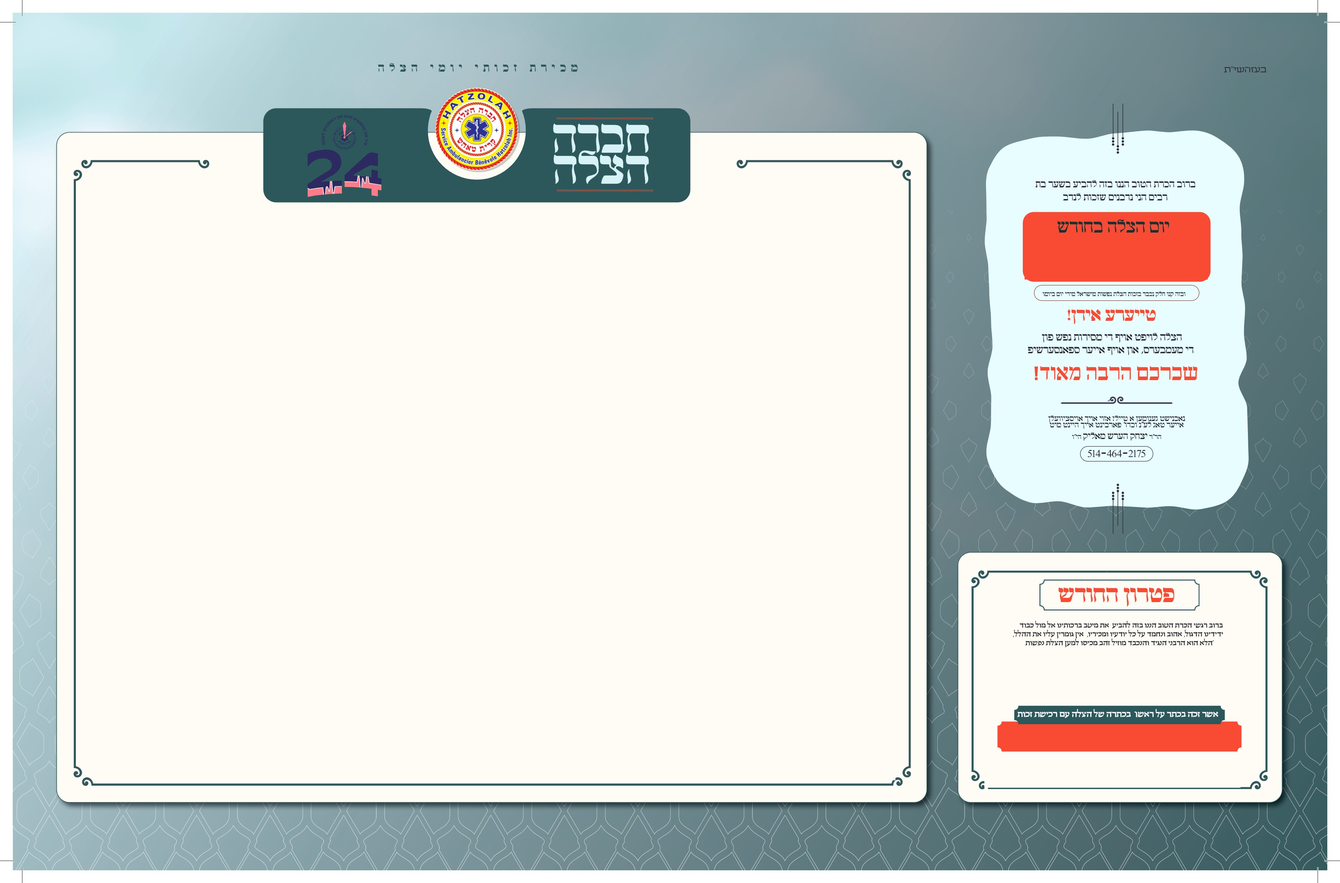
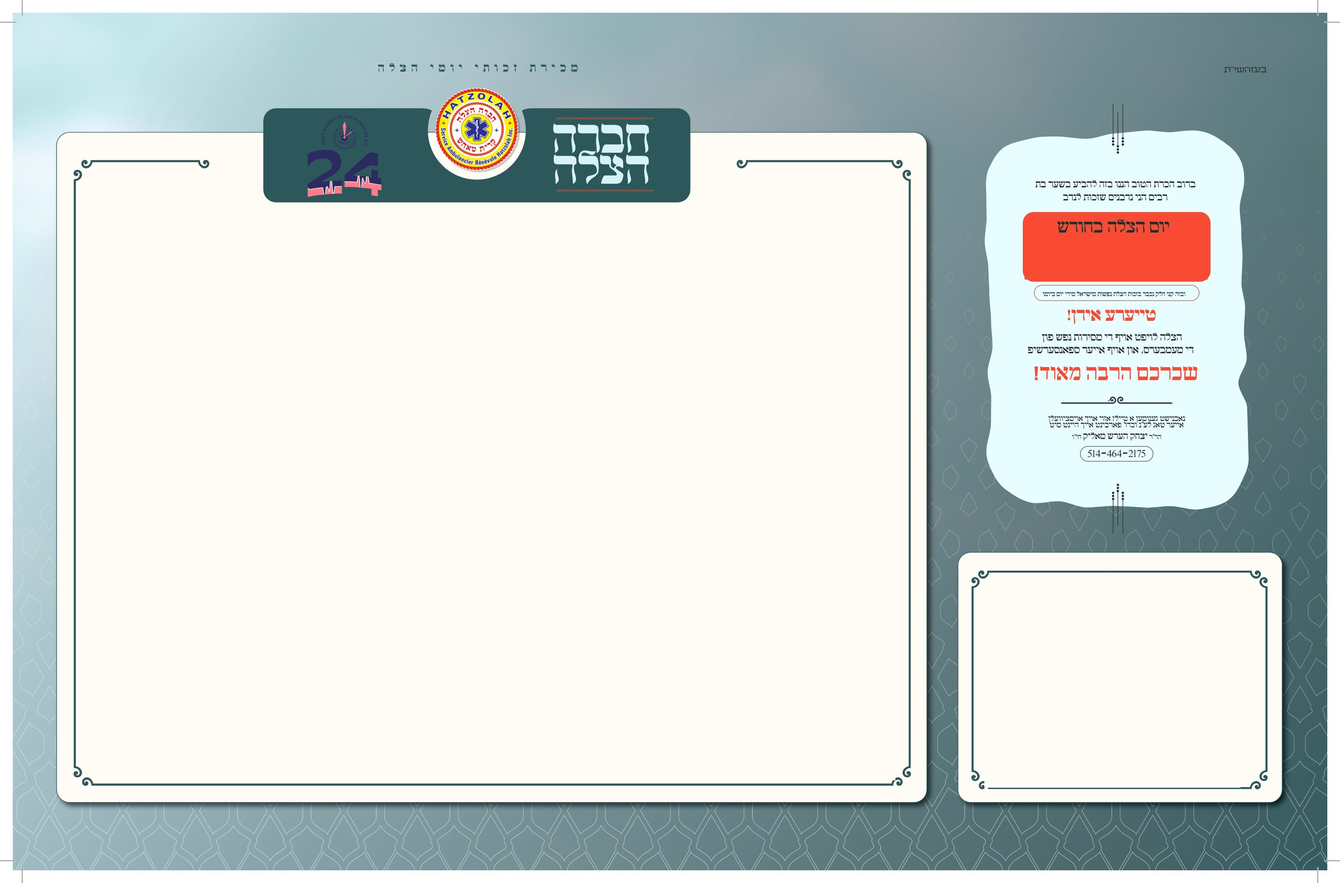
Sponsor list patron section: heading, text, strip, red band, name and dedication are separate pieces that can be dragged (or moved with the arrow keys), removed and brought back; saved per month. Long names and dedications shrink to fit their space instead of running over other pieces (also in the d

Changed region(s): [[0.7457, 0.7794, 0.9321, 0.8729], [0.7767, 0.6547, 0.901, 0.7482]]

diff --git a/src/pages/SponsorSheet.tsx b/src/pages/SponsorSheet.tsx
@@ -3,7 +3,7 @@ import { Combine, MoveLeft, MoveRight, Pencil, Printer, RotateCcw, Split, X } fr
 import { HDate } from '@hebcal/core';
 import { MonthNav } from '../components/HebrewCalendar';
 import { hebMonthName, hebYearText, todayHebrew } from '../utils/hebrewCalendar';
-import { type SheetDay, type SheetLayout, type SheetText, TEXT_FIELDS, dayLabel, defaultLayout, hasText, mergeBoxes, moveBox, nameLine, normalizeLayout, placeBoxes, shownText, splitBox, systemText } from '../utils/sponsorSheet';
+import { type PieceKey, type PieceSpot, type SheetDay, type SheetLayout, type SheetText, PIECES, TEXT_FIELDS, changePiece, cleanPieces, pieceSpot, dayLabel, defaultLayout, hasText, mergeBoxes, moveBox, nameLine, normalizeLayout, placeBoxes, shownText, splitBox, systemText } from '../utils/sponsorSheet';
 
 type Item = SheetDay & { id: string; kind: 'day' | 'month' };
 
@@ -22,12 +22,18 @@ const rowTops = (rows: number) => {
   return { tops: Array.from({ length: rows }, (_, index) => ROW_TOP[0] + pitch * index), height: Math.min(BOX_H, pitch - 15) };
 };
 
-/** Shrinks the text of a box until it fits. */
+/** A text size that shrinks with its box (see Fit). */
+const fs = (size: number) => `calc(${size}pt * var(--k, 1))`;
+/** Shrinks the text inside until it fits its box, so it never runs over other parts of the sheet. */
 const Fit: React.FC<{ children: React.ReactNode; deps: unknown[] }> = ({ children, deps }) => {
   const ref = useRef<HTMLDivElement>(null);
   useLayoutEffect(() => {
-    const el = ref.current; if (!el) return; let scale = 1; el.style.fontSize = '1em';
-    for (let step = 0; step < 14 && (el.scrollHeight > el.clientHeight + 1 || el.scrollWidth > el.clientWidth + 1); step++) { scale -= 0.05; el.style.fontSize = `${scale}em`; }
+    const el = ref.current; if (!el) return;
+    const run = () => {
+      let k = 1; el.style.setProperty('--k', '1');
+      while (k > 0.25 && (el.scrollHeight > el.clientHeight + 1 || el.scrollWidth > el.clientWidth + 1)) { k -= 0.03; el.style.setProperty('--k', String(k)); }
+    };
+    run(); void document.fonts?.ready.then(run);
   }, deps); // eslint-disable-line react-hooks/exhaustive-deps
   return <div ref={ref} className="ss-fit">{children}</div>;
 };
@@ -36,14 +42,14 @@ const Fit: React.FC<{ children: React.ReactNode; deps: unknown[] }> = ({ childre
 const BoxText: React.FC<{ text: SheetText; span: number }> = ({ text, span }) => {
   const honoree = [text.honoree, text.notes].filter(Boolean) as string[];
   const name = [text.first, text.last].filter(Boolean).join(' ');
-  if (span >= 5) return <Fit deps={[text, span]}><div className="ss-line">{text.title && <span style={{ fontSize: '18pt' }} className="ss-ink">{text.title}</span>} <span className="ss-name" style={{ fontSize: '36pt' }}>{name}</span> {text.end && <span style={{ fontSize: '18pt' }} className="ss-ink">{text.end}</span>}</div>{honoree.map(line => <div key={line} className="ss-hon" style={{ fontSize: '12pt' }}>{line}</div>)}</Fit>;
+  if (span >= 5) return <Fit deps={[text, span]}><div className="ss-line">{text.title && <span style={{ fontSize: fs(18) }} className="ss-ink">{text.title}</span>} <span className="ss-name" style={{ fontSize: fs(36) }}>{name}</span> {text.end && <span style={{ fontSize: fs(18) }} className="ss-ink">{text.end}</span>}</div>{honoree.map(line => <div key={line} className="ss-hon" style={{ fontSize: fs(12) }}>{line}</div>)}</Fit>;
   const nameSize = span >= 3 ? 24 : span === 2 ? 17 : 15;
   // One line when it fits; otherwise the first name on one line and the last name under it.
   return <Fit deps={[text, span]}>
-    {text.title && <div className="ss-ink ss-title" style={{ fontSize: '8pt' }}>{text.title}</div>}
-    {name && <div className="ss-name" style={{ fontSize: pt(nameSize) }}>{text.first && text.last ? <><span className="ss-nowrap">{text.first}</span> <span className="ss-nowrap">{text.last}</span></> : name}</div>}
-    {text.end && <div className="ss-ink" style={{ fontSize: '8pt' }}>{text.end}</div>}
-    {honoree.map(line => <div key={line} className="ss-hon" style={{ fontSize: span >= 3 ? '9pt' : '7.5pt' }}>{line}</div>)}
+    {text.title && <div className="ss-ink ss-title" style={{ fontSize: fs(8) }}>{text.title}</div>}
+    {name && <div className="ss-name" style={{ fontSize: fs(nameSize) }}>{text.first && text.last ? <><span className="ss-nowrap">{text.first}</span> <span className="ss-nowrap">{text.last}</span></> : name}</div>}
+    {text.end && <div className="ss-ink" style={{ fontSize: fs(8) }}>{text.end}</div>}
+    {honoree.map(line => <div key={line} className="ss-hon" style={{ fontSize: fs(span >= 3 ? 9 : 7.5) }}>{line}</div>)}
   </Fit>;
 };
 
@@ -76,13 +82,15 @@ export const SponsorSheet: React.FC = () => {
   const [editing, setEditing] = useState<{ kind: 'box'; day: number; label: string } | { kind: 'patron' } | null>(null);
   const [status, setStatus] = useState(''); const [scale, setScale] = useState(0.6); const wrap = useRef<HTMLDivElement>(null);
   const saveTimer = useRef<number | undefined>(undefined);
+  const [piece, setPiece] = useState<string | null>(null); // the chosen piece of the patron section
+  const layoutRef = useRef(layout); layoutRef.current = layout;
 
   useEffect(() => {
     const id = 'sponsor-sheet-fonts';
     if (!document.getElementById(id)) { const link = document.createElement('link'); link.id = id; link.rel = 'stylesheet'; link.href = 'https://fonts.googleapis.com/css2?family=Noto+Serif+Hebrew:wdth,wght@62.5..100,300..900&display=swap'; document.head.appendChild(link); }
   }, []);
   useEffect(() => {
-    let cancelled = false; setLoaded(false); setSelected([]);
+    let cancelled = false; setLoaded(false); setSelected([]); setPiece(null);
     void (async () => {
       try {
         const response = await fetch(`/api/v3/sponsor-sheet?hebYear=${view.year}&hebMonth=${view.month}`); const data = await response.json();
@@ -125,6 +133,32 @@ export const SponsorSheet: React.FC = () => {
   const split = () => { let next = layout; [...selected].sort((a, b) => b - a).forEach(index => { next = splitBox(next, index); }); save(next); setSelected([]); };
   const move = (step: -1 | 1) => { if (selected.length !== 1) return; const to = selected[0] + step; if (to < 0 || to >= layout.boxes.length) return; save(moveBox(layout, selected[0], to)); setSelected([to]); };
   const editLabel = (day: number) => { const text = window.prompt('Text on this day tab (for example יא):', dayLabel(layout, day)); if (text === null) return; const labels = { ...(layout.labels || {}) }; if (text.trim()) labels[String(day)] = text.trim(); else delete labels[String(day)]; save({ ...layout, labels }); };
+  // Patron section: every piece can be dragged, moved with the arrow keys, hidden, or put back.
+  const setSpot = (key: string, spot: PieceSpot) => save({ ...layoutRef.current, pieces: cleanPieces({ ...(layoutRef.current.pieces || {}), [key]: spot }) });
+  const startDrag = (key: string) => (event: React.PointerEvent) => {
+    if (event.button !== 0) return; event.stopPropagation(); setPiece(key); setSelected([]);
+    const perPx = 1 / (scale * 4 / 3); let last = { x: event.clientX, y: event.clientY }; let current = layoutRef.current; let moved = false;
+    const onMove = (ev: PointerEvent) => { const dx = (ev.clientX - last.x) * perPx; const dy = (ev.clientY - last.y) * perPx; if (!dx && !dy) return; last = { x: ev.clientX, y: ev.clientY }; current = changePiece(current, key, { dx, dy }); moved = true; setLayout(current); };
+    const onUp = () => { window.removeEventListener('pointermove', onMove); window.removeEventListener('pointerup', onUp); if (moved) save(current); };
+    window.addEventListener('pointermove', onMove); window.addEventListener('pointerup', onUp);
+  };
+  useEffect(() => {
+    if (!piece) return;
+    const onKey = (event: KeyboardEvent) => {
+      const target = event.target as HTMLElement; if (target.closest('input,textarea,select,.modal')) return;
+      const step = event.shiftKey ? 5 : 1; const arrows: Record<string, [number, number]> = { ArrowLeft: [-step, 0], ArrowRight: [step, 0], ArrowUp: [0, -step], ArrowDown: [0, step] };
+      if (arrows[event.key]) { event.preventDefault(); save(changePiece(layoutRef.current, piece, { dx: arrows[event.key][0], dy: arrows[event.key][1] })); }
+      else if (event.key === 'Delete' || event.key === 'Backspace') { event.preventDefault(); save(changePiece(layoutRef.current, piece, { hidden: true })); setPiece(null); }
+      else if (event.key === 'Escape') setPiece(null);
+    };
+    window.addEventListener('keydown', onKey); return () => window.removeEventListener('keydown', onKey);
+  }, [piece]); // eslint-disable-line react-hooks/exhaustive-deps
+  const pieceBox = (key: PieceKey, children: React.ReactNode, onEdit?: () => void) => {
+    const spec = PIECES.find(item => item.key === key)!; const spot = pieceSpot(layout, key); if (spot.hidden) return null;
+    return <div key={key} className={`ss-abs ss-piece ${piece === key ? 'ss-piece-on' : ''}`} style={{ left: pt(spec.x + spot.dx), top: pt(spec.y + spot.dy), width: pt(spec.w), height: pt(spec.h) }}
+      onPointerDown={startDrag(key)} onDoubleClick={onEdit} title={`${spec.label}: drag to move${onEdit ? ', double-click to change the text' : ''}`}>{children}</div>;
+  };
+  const chosenPiece = PIECES.find(item => item.key === piece);
   const mixed = placed.filter(box => new Set(box.days.map(day => byDay.get(day)?.donorId || '')).size > 1);
 
   return <div className="ss-page">
@@ -148,12 +182,21 @@ export const SponsorSheet: React.FC = () => {
         <label>Month in the patron band <input dir="rtl" value={layout.bandMonth ?? ''} placeholder={monthName} onChange={event => save({ ...layout, bandMonth: event.target.value })} /></label>
         <small style={{ color: 'var(--text-muted)' }}>{loaded ? status : 'Loading…'}</small>
       </div>
-      <small style={{ color: 'var(--text-muted)' }}>Click boxes to choose them, then Merge (each day keeps its tab). Drag a box to move it. Double-click a box (or the patron) to change its text. Double-click a red day tab to change its date. Print: paper 11 × 17 (Tabloid), landscape, margins none, “Background graphics” on.</small>
+      <div className="ss-tools">
+        <strong style={{ fontSize: 13 }}>Patron section:</strong>
+        {PIECES.map(item => <label key={item.key} title="Untick to take it off the sheet"><input type="checkbox" style={{ width: 'auto' }} checked={!pieceSpot(layout, item.key).hidden} onChange={event => { save(changePiece(layout, item.key, { hidden: !event.target.checked })); if (!event.target.checked && piece === item.key) setPiece(null); }} /> <span dir="auto">{item.label}</span></label>)}
+        {chosenPiece && <>
+          <button className="btn btn-secondary btn-sm" onClick={() => { const spot = pieceSpot(layout, chosenPiece.key); setSpot(chosenPiece.key, { dx: 0, dy: 0, hidden: spot.hidden }); }}><RotateCcw size={14} /> Put “{chosenPiece.label}” back</button>
+          <button className="btn btn-secondary btn-sm" onClick={() => { save(changePiece(layout, chosenPiece.key, { hidden: true })); setPiece(null); }}><X size={14} /> Remove it</button>
+        </>}
+        {layout.pieces && <button className="btn btn-ghost btn-sm" onClick={() => { save({ ...layout, pieces: undefined }); setPiece(null); }}><RotateCcw size={14} /> Patron section as regular</button>}
+      </div>
+      <small style={{ color: 'var(--text-muted)' }}>Patron section: drag any piece to move it, or click it and use the arrow keys (Shift = bigger steps); Delete removes it; tick it again to bring it back. Click boxes to choose them, then Merge (each day keeps its tab). Drag a box to move it. Double-click a box (or the patron) to change its text. Double-click a red day tab to change its date. Print: paper 11 × 17 (Tabloid), landscape, margins none, “Background graphics” on.</small>
       {error && <div className="pay-error">{error}</div>}
       {mixed.length > 0 && <div className="pay-error">A merged box has days of different sponsors ({mixed.map(box => box.days.map(day => dayLabel(layout, day)).join(',')).join(' · ')}). The box shows the first day's sponsor.</div>}
     </div>
     <div ref={wrap} className="ss-wrap" style={{ height: 834 * (4 / 3) * scale }}>
-      <div className="ss-sheet" dir="rtl" style={{ transform: `scale(${scale})` }}>
+      <div className="ss-sheet" dir="rtl" style={{ transform: `scale(${scale})` }} onPointerDown={() => setPiece(null)}>
         <img className="ss-template" src="/sponsor-sheet/template.jpg" alt="" />
         {placed.map(box => {
           const top = tops[box.row]; const right = COL_LEFT[box.col] + BOX_W + BORDER; const left = COL_LEFT[box.col + box.span - 1] - BORDER;
@@ -169,14 +212,15 @@ export const SponsorSheet: React.FC = () => {
           </React.Fragment>;
         })}
         <div className="ss-abs ss-month" style={{ left: pt(968), top: pt(226), width: pt(173), height: pt(38) }}>{monthTitle}</div>
-        {hasText(patronShown) && <>
-          <div className="ss-abs ss-patron" style={{ left: pt(920), top: pt(612), width: pt(260), height: pt(52) }} onDoubleClick={() => setEditing({ kind: 'patron' })}>
-            <div>{patronShown.title && <span className="ss-ink" style={{ fontSize: '13pt' }}>{patronShown.title}</span>} <span className="ss-pname">{patronShown.first}</span></div>
-            <div><span className="ss-pname">{patronShown.last}</span> {patronShown.end && <span className="ss-ink" style={{ fontSize: '14pt' }}>{patronShown.end}</span>}</div>
-          </div>
-          <div className="ss-abs ss-phon" style={{ left: pt(932), top: pt(711), width: pt(238), height: pt(32) }} onDoubleClick={() => setEditing({ kind: 'patron' })}><Fit deps={[patronShown]}>{patronShown.honoree && <div>{patronShown.honoree}</div>}{patronShown.notes && <div style={{ fontSize: '7pt' }}>{patronShown.notes}</div>}</Fit></div>
-        </>}
-        <div className="ss-abs ss-band" style={{ left: pt(946), top: pt(683), width: pt(223), height: pt(25) }}>פטרון הצלה לחודש {bandMonth}</div>
+        {pieceBox('title', <img className="ss-pimg" src="/sponsor-sheet/title.png" alt="" draggable={false} />)}
+        {pieceBox('intro', <img className="ss-pimg" src="/sponsor-sheet/intro.png" alt="" draggable={false} />)}
+        {pieceBox('band', <><img className="ss-pimg" src="/sponsor-sheet/band.png" alt="" draggable={false} /><div className="ss-band"><Fit deps={[bandMonth]}><span className="ss-nowrap">פטרון הצלה לחודש {bandMonth}</span></Fit></div></>, () => { const text = window.prompt('Month in the red band:', bandMonth); if (text !== null) save({ ...layout, bandMonth: text }); })}
+        {pieceBox('strip', <img className="ss-pimg" src="/sponsor-sheet/strip.png" alt="" draggable={false} />)}
+        {hasText(patronShown) && pieceBox('name', <div className="ss-patron"><Fit deps={[patronShown]}>
+          <div className="ss-nowrap">{patronShown.title && <span className="ss-ink" style={{ fontSize: fs(13) }}>{patronShown.title}</span>} <span className="ss-pname">{patronShown.first}</span></div>
+          <div className="ss-nowrap"><span className="ss-pname">{patronShown.last}</span> {patronShown.end && <span className="ss-ink" style={{ fontSize: fs(14) }}>{patronShown.end}</span>}</div>
+        </Fit></div>, () => setEditing({ kind: 'patron' }))}
+        {(patronShown.honoree || patronShown.notes) && pieceBox('dedication', <div className="ss-phon"><Fit deps={[patronShown]}>{patronShown.honoree && <div>{patronShown.honoree}</div>}{patronShown.notes && <div style={{ fontSize: fs(7) }}>{patronShown.notes}</div>}</Fit></div>, () => setEditing({ kind: 'patron' }))}
       </div>
     </div>
     {editing?.kind === 'box' && <TextEditor heading={`Box ${editing.label}`} system={systemText(byDay.get(editing.day) || null)} typed={layout.texts?.[String(editing.day)]} onClose={() => setEditing(null)} onSave={typed => saveBoxText(editing.day, typed)} />}
@@ -207,10 +251,16 @@ const SHEET_CSS = `
 .ss-hon{color:${INK};font-weight:500;font-stretch:72%;line-height:1.15;margin-top:2pt}
 .ss-tab{position:absolute;width:${TAB_W}pt;height:${TAB_H}pt;background:${RED};color:#fff;border-radius:6pt 0 6pt 0;box-shadow:1.6pt 1.6pt 0 #5e8587;font-weight:700;font-stretch:85%;font-size:16pt;line-height:${TAB_H}pt;text-align:right;padding-right:5pt;box-sizing:border-box;cursor:text;white-space:nowrap;overflow:hidden}
 .ss-month{color:#fff;font-weight:800;font-stretch:72%;font-size:34pt;line-height:36pt;text-align:center;white-space:nowrap}
-.ss-patron{text-align:center;line-height:24pt;color:${TEAL};cursor:text}
-.ss-pname{font-size:25pt;font-weight:800;font-stretch:80%;color:${TEAL}}
-.ss-band{color:#fff;font-weight:800;font-stretch:80%;font-size:22pt;line-height:25pt;text-align:center;white-space:nowrap}
-.ss-phon{text-align:center;font-size:8pt;line-height:1.2;color:${INK};font-weight:500}
+.ss-piece{cursor:move;user-select:none;-webkit-user-select:none;touch-action:none}
+.ss-piece:hover{outline:1.5pt dashed rgba(37,99,235,.45);outline-offset:1pt}
+.ss-piece-on{outline:2.5pt solid #2563eb!important;outline-offset:1pt}
+.ss-pimg{position:absolute;inset:0;width:100%;height:100%;display:block;pointer-events:none}
+.ss-patron{position:absolute;inset:0;display:flex;align-items:center;line-height:.98;color:${TEAL}}
+.ss-pname{font-size:calc(25pt * var(--k, 1));font-weight:800;font-stretch:80%;color:${TEAL}}
+.ss-band{position:absolute;left:5pt;right:5pt;top:3.3pt;height:25pt;display:flex;align-items:center;color:#fff;font-weight:800;font-stretch:80%;line-height:1}
+.ss-band .ss-nowrap{font-size:calc(22pt * var(--k, 1))}
+.ss-phon{position:absolute;inset:0;display:flex;align-items:center;line-height:1.2;color:${INK};font-weight:500}
+.ss-phon .ss-fit{font-size:calc(8pt * var(--k, 1))}
 @media print{
   @page{size:1266pt 834pt;margin:0}
   html,body{margin:0!important;padding:0!important;background:#fff!important}
@@ -218,7 +268,7 @@ const SHEET_CSS = `
   .ss-sheet,.ss-sheet *{visibility:visible}
   .ss-wrap{height:auto!important;overflow:visible}
   .ss-sheet{position:fixed;top:0;left:0;transform:none!important;box-shadow:none}
-  .ss-box{outline:none!important;opacity:1!important}
+  .ss-box,.ss-piece{outline:none!important;opacity:1!important}
   .no-print{display:none!important}
 }
 `;

diff --git a/src/utils/sponsorSheet.ts b/src/utils/sponsorSheet.ts
@@ -17,7 +17,39 @@ export const TEXT_FIELDS = ['title', 'first', 'last', 'end', 'honoree', 'notes']
  * boxes: the days of each box, in the order they are shown. labels: a day's text on its tab when it was changed.
  * texts: text typed by hand for a box (by the box's first day); patronText: the same for the month patron.
  */
-export type SheetLayout = { boxes: number[][]; labels?: Record<string, string>; monthTitle?: string; bandMonth?: string; texts?: Record<string, SheetText>; patronText?: SheetText };
+export type SheetLayout = { boxes: number[][]; labels?: Record<string, string>; monthTitle?: string; bandMonth?: string; texts?: Record<string, SheetText>; patronText?: SheetText; pieces?: Record<string, PieceSpot> };
+/** Where a piece of the patron section was moved to (points from its regular place), or hidden. */
+export type PieceSpot = { dx: number; dy: number; hidden?: boolean };
+/** The pieces of the patron section, at their regular place on the sheet (points). */
+export const PIECES = [
+  { key: 'title', label: 'Heading פטרון החודש', x: 981, y: 546.3, w: 153, h: 31 },
+  { key: 'intro', label: 'Text ברוב רגשי…', x: 955.7, y: 585, w: 200.6, h: 27 },
+  { key: 'name', label: 'Patron name', x: 925, y: 612, w: 265, h: 53 },
+  { key: 'strip', label: 'Strip אשר זכה בכתר…', x: 957, y: 665.3, w: 201, h: 18.7 },
+  { key: 'band', label: 'Red band', x: 941, y: 680.7, w: 232.7, h: 30 },
+  { key: 'dedication', label: 'Dedication line', x: 932, y: 711, w: 238, h: 32 },
+] as const;
+export type PieceKey = typeof PIECES[number]['key'];
+const PIECE_KEYS: readonly string[] = PIECES.map(piece => piece.key);
+const LIMIT = 1300;
+const clampMove = (value: unknown) => { const number = Number(value); return Number.isFinite(number) ? Math.round(Math.max(-LIMIT, Math.min(LIMIT, number)) * 10) / 10 : 0; };
+/** Keeps only known pieces with sane numbers. */
+export const cleanPieces = (raw: any): Record<string, PieceSpot> | undefined => {
+  const out: Record<string, PieceSpot> = {};
+  for (const [key, value] of Object.entries(raw && typeof raw === 'object' ? raw : {})) {
+    if (!PIECE_KEYS.includes(key) || !value || typeof value !== 'object') continue;
+    const spot: PieceSpot = { dx: clampMove((value as any).dx), dy: clampMove((value as any).dy) }; if ((value as any).hidden === true) spot.hidden = true;
+    if (spot.dx || spot.dy || spot.hidden) out[key] = spot;
+  }
+  return Object.keys(out).length ? out : undefined;
+};
+export const pieceSpot = (layout: SheetLayout, key: string): PieceSpot => layout.pieces?.[key] || { dx: 0, dy: 0 };
+/** Moves a piece by (dx, dy) points, or sets it hidden / shown. */
+export const changePiece = (layout: SheetLayout, key: string, change: Partial<PieceSpot>): SheetLayout => {
+  const now = pieceSpot(layout, key);
+  const next = { ...now, ...change, dx: change.dx !== undefined ? now.dx + change.dx : now.dx, dy: change.dy !== undefined ? now.dy + change.dy : now.dy };
+  return { ...layout, pieces: cleanPieces({ ...(layout.pieces || {}), [key]: next }) };
+};
 export type PlacedBox = { index: number; days: number[]; row: number; col: number; span: number };
 
 export const PER_ROW = 7;
@@ -65,7 +97,7 @@ export const normalizeLayout = (raw: any, daysInMonth: number): SheetLayout => {
   for (const [key, value] of Object.entries(raw?.labels || {})) { const text = String(value || '').trim().slice(0, 12); if (text && Number(key) >= 1 && Number(key) <= daysInMonth) labels[key] = text; }
   const texts: Record<string, SheetText> = {};
   for (const [key, value] of Object.entries(raw?.texts || {})) { const text = cleanText(value); if (text && Number(key) >= 1 && Number(key) <= daysInMonth) texts[key] = text; }
-  return { boxes, labels, monthTitle: String(raw?.monthTitle || '').trim().slice(0, 40) || undefined, bandMonth: String(raw?.bandMonth || '').trim().slice(0, 40) || undefined, texts, patronText: cleanText(raw?.patronText) };
+  return { boxes, labels, monthTitle: String(raw?.monthTitle || '').trim().slice(0, 40) || undefined, bandMonth: String(raw?.bandMonth || '').trim().slice(0, 40) || undefined, texts, patronText: cleanText(raw?.patronText), pieces: cleanPieces(raw?.pieces) };
 };
 
 /** One box over all the chosen boxes' days, at the place of the first one. At most 7 days in a box. */

diff --git a/functions/api/report-data.ts b/functions/api/report-data.ts
@@ -166,7 +166,10 @@ export const registerReportDataRoutes = (app: any) => {
     // Text typed by hand over the system text (per box and for the month patron).
     const cleanText = (raw: any) => { if (!raw || typeof raw !== 'object') return undefined; const out: Record<string, string> = {}; for (const field of ['title', 'first', 'last', 'end', 'honoree', 'notes']) if (typeof raw[field] === 'string') out[field] = raw[field].slice(0, field === 'honoree' ? 400 : 120); return Object.keys(out).length ? out : undefined; };
     const texts: Record<string, any> = {}; for (const [key, value] of Object.entries(body.texts || {})) { const text = cleanText(value); if (text && Number(key) >= 1 && Number(key) <= 30) texts[key] = text; }
-    const layout = { boxes, labels, monthTitle: String(body.monthTitle || '').trim().slice(0, 40), bandMonth: String(body.bandMonth || '').trim().slice(0, 40), texts, patronText: cleanText(body.patronText) };
+    // Pieces of the patron section moved (points) or hidden.
+    const pieces: Record<string, any> = {}; const move = (value: any) => { const n = Number(value); return Number.isFinite(n) ? Math.round(Math.max(-1300, Math.min(1300, n)) * 10) / 10 : 0; };
+    for (const [key, value] of Object.entries(body.pieces && typeof body.pieces === 'object' ? body.pieces : {})) { if (!['title', 'intro', 'name', 'strip', 'band', 'dedication'].includes(key) || !value || typeof value !== 'object') continue; const spot: any = { dx: move((value as any).dx), dy: move((value as any).dy) }; if ((value as any).hidden === true) spot.hidden = true; if (spot.dx || spot.dy || spot.hidden) pieces[key] = spot; }
+    const layout = { boxes, labels, monthTitle: String(body.monthTitle || '').trim().slice(0, 40), bandMonth: String(body.bandMonth || '').trim().slice(0, 40), texts, patronText: cleanText(body.patronText), pieces: Object.keys(pieces).length ? pieces : undefined };
     if (body.reset) { await c.env.DB.prepare('DELETE FROM sync_metadata WHERE key=?').bind(`sponsor_sheet_layout_${hebYear}_${hebMonth}`).run(); return c.json({ success: true, layout: null }); }
     await c.env.DB.prepare('INSERT INTO sync_metadata(key,value,updated_at) VALUES(?,?,?) ON CONFLICT(key) DO UPDATE SET value=excluded.value,updated_at=excluded.updated_at').bind(`sponsor_sheet_layout_${hebYear}_${hebMonth}`, JSON.stringify(layout), Date.now()).run();
     return c.json({ success: true, layout });

diff --git a/tests/sponsorSheet.test.ts b/tests/sponsorSheet.test.ts
@@ -1,5 +1,5 @@
 import { describe, expect, it } from 'vitest';
-import { dayLabel, dayLetters, defaultLayout, endLine, hasText, mergeBoxes, moveBox, nameLine, normalizeLayout, placeBoxes, shownText, splitBox, titleLine } from '../src/utils/sponsorSheet';
+import { changePiece, cleanPieces, dayLabel, pieceSpot, dayLetters, defaultLayout, endLine, hasText, mergeBoxes, moveBox, nameLine, normalizeLayout, placeBoxes, shownText, splitBox, titleLine } from '../src/utils/sponsorSheet';
 
 const rowsOf = (layout: ReturnType<typeof defaultLayout>) => { const { placed } = placeBoxes(layout); const rows: string[][] = []; for (const box of placed) (rows[box.row] ||= []).push(box.days.map(day => dayLabel(layout, day)).join(',')); return rows; };
 
@@ -51,5 +51,20 @@ describe('monthly sponsor list layout', () => {
     expect(titleLine({ donorId: '', preTitle: 'הרב' })).toBe('הרב');
     expect(nameLine({ donorId: '', hebFirstName: 'אלעזר', hebLastName: 'קליין' })).toBe('אלעזר קליין');
     expect(endLine({ donorId: '' })).toBe('הי"ו'); expect(endLine({ donorId: '', postTitle: 'שליט"א' })).toBe('שליט"א');
+  });
+});
+
+describe('patron section pieces', () => {
+  it('moves, hides and brings back a piece, and keeps only known pieces', () => {
+    let layout = defaultLayout(30);
+    layout = changePiece(layout, 'strip', { dx: 10, dy: -5 });
+    layout = changePiece(layout, 'strip', { dx: 2.5 });
+    expect(pieceSpot(layout, 'strip')).toEqual({ dx: 12.5, dy: -5 });
+    layout = changePiece(layout, 'title', { hidden: true });
+    expect(pieceSpot(layout, 'title').hidden).toBe(true);
+    layout = changePiece(layout, 'title', { hidden: false });
+    expect(layout.pieces?.title).toBeUndefined();
+    expect(cleanPieces({ strip: { dx: 'x', dy: 99999 }, other: { dx: 5, dy: 5 }, band: { dx: 0, dy: 0 } })).toEqual({ strip: { dx: 0, dy: 1300 } });
+    expect(normalizeLayout({ boxes: [], pieces: { name: { dx: 4, dy: 3, hidden: true } } }, 30).pieces).toEqual({ name: { dx: 4, dy: 3, hidden: true } });
   });
 });
